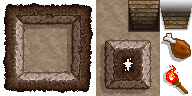
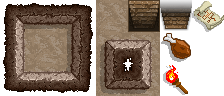
map added

diff --git a/Rogueskiv.Core/Systems/MapSys.cs b/Rogueskiv.Core/Systems/MapSys.cs
@@ -1,0 +1,50 @@
+
+using Rogueskiv.Core.Components;
+using Rogueskiv.Core.Components.Board;
+using Rogueskiv.Core.Components.Position;
+using Seedwork.Core;
+using Seedwork.Core.Entities;
+using Seedwork.Core.Systems;
+using System.Collections.Generic;
+using System.Linq;
+
+namespace Rogueskiv.Core.Systems
+{
+    class MapSys : BaseSystem
+    {
+        private Game Game;
+        private PositionComp PlayerPositionComp;
+        private List<TileComp> TileComps;
+        private List<StairsComp> StairsComps;
+
+        public override void Init(Game game)
+        {
+            Game = game;
+            PlayerPositionComp = game.Entities.GetSingleComponent<PlayerComp, CurrentPositionComp>();
+            TileComps = game.Entities.GetComponents<TileComp>();
+            StairsComps = game.Entities.GetComponents<StairsComp>();
+        }
+
+        public override void Update(EntityList entities, List<int> controls)
+        {
+            // TODO DRY FoodSys and TorchSys (... PickableSys ?)
+
+            var pickedMaps = entities
+                .GetWithComponent<MapComp>()
+                .Select(e => (
+                    mapEntityId: e.Id,
+                    mapComp: e.GetComponent<MapComp>()
+                ))
+                .Where(map => map.mapComp.TilePos == PlayerPositionComp.TilePos)
+                .ToList();
+
+            if (pickedMaps.Any())
+            {
+                TileComps.ForEach(tileComp => tileComp.HasBeenSeen = true);
+                StairsComps.ForEach(stairsComp => stairsComp.HasBeenSeen = true);
+                pickedMaps.ForEach(map => Game.RemoveEntity(map.mapEntityId));
+                Game.RemoveSystem(this);  // only one map per floor
+            }
+        }
+    }
+}

diff --git a/Rogueskiv.Core/Systems/SpawnSys.cs b/Rogueskiv.Core/Systems/SpawnSys.cs
@@ -17,8 +17,9 @@ namespace Rogueskiv.Core.Systems
     class SpawnSys : BaseSystem
     {
         private const int MIN_ENEMY_SPAWN_DISTANCE = 5;
-        private const int MIN_FOOD_SPAWN_DISTANCE = 10;
+        private const int MIN_FOOD_SPAWN_DISTANCE = 20;
         private const int MIN_TORCH_SPAWN_DISTANCE = 10;
+        private const int MIN_MAP_SPAWN_DISTANCE = 30;
         private const float STAIRS_MIN_DISTANCE_FACTOR = 0.8f;
         private const int ENEMY_RADIUS = 6;
 
@@ -79,8 +80,8 @@ namespace Rogueskiv.Core.Systems
                     .ForEach(enemy => game.AddEntity(enemy));
 
             game.AddEntity(CreateFood(measuredTiles));
-
             game.AddEntity(CreateTorch(measuredTiles));
+            game.AddEntity(CreateMap(measuredTiles));
 
             game.AddEntity(CreateDownStairs(measuredTiles, tilesPosWithSpaceAround));
 
@@ -241,6 +242,17 @@ namespace Rogueskiv.Core.Systems
                 .Add(BoardComp.TILE_SIZE / 2);
 
             return new TorchComp(torchTilePos);
+        }
+
+        private static IComponent CreateMap(
+            List<(Point tilePos, int distance)> tilePositionsAndDistances
+        )
+        {
+            var mapTilePos = GetRandomTilePos(tilePositionsAndDistances, MIN_MAP_SPAWN_DISTANCE)
+                .Multiply(BoardComp.TILE_SIZE)
+                .Add(BoardComp.TILE_SIZE / 2);
+
+            return new MapComp(mapTilePos);
         }
 
         private static IComponent CreateDownStairs(

diff --git a/Rogueskiv.Ux/Renderers/MapRenderer.cs b/Rogueskiv.Ux/Renderers/MapRenderer.cs
@@ -1,0 +1,29 @@
+using Rogueskiv.Core.Components;
+using Rogueskiv.Core.Components.Board;
+using Seedwork.Ux;
+using Seedwork.Ux.SpriteProviders;
+using System;
+using static SDL2.SDL;
+
+namespace Rogueskiv.Ux.Renderers
+{
+    class MapRenderer : PositionRenderer<MapComp>
+    {
+        public MapRenderer(UxContext uxContext, IntPtr boardTexture)
+            : base(
+                uxContext,
+                new SingleSpriteProvider<MapComp>(
+                    boardTexture,
+                    new SDL_Rect
+                    {
+                        x = 6 * BoardComp.TILE_SIZE,
+                        y = 0,
+                        w = BoardComp.TILE_SIZE,
+                        h = BoardComp.TILE_SIZE
+                    }
+                )
+            )
+        { }
+    }
+}
+

diff --git a/Rogueskiv.Ux/RogueskivRenderer.cs b/Rogueskiv.Ux/RogueskivRenderer.cs
@@ -37,6 +37,7 @@ namespace Rogueskiv.Ux
             Renderers[typeof(UpStairsComp)] = new UpStairsRenderer(uxContext, BoardTexture);
             Renderers[typeof(FoodComp)] = new FoodRenderer(uxContext, BoardTexture);
             Renderers[typeof(TorchComp)] = new TorchRenderer(uxContext, BoardTexture);
+            Renderers[typeof(MapComp)] = new MapRenderer(uxContext, BoardTexture);
             Renderers[typeof(EnemyComp)] = new EnemyRenderer(uxContext);
             Renderers[typeof(FOVComp)] = new FOVRenderer(uxContext, game);
             Renderers[typeof(PlayerComp)] = new PlayerRenderer(uxContext);

diff --git a/Rogueskiv.Core/Components/Board/TileComp.cs b/Rogueskiv.Core/Components/Board/TileComp.cs
@@ -21,7 +21,7 @@ namespace Rogueskiv.Core.Components.Board
 
     public class TileComp : PositionComp
     {
-        public bool HasBeenSeen { get; private set; }
+        public bool HasBeenSeen { get; set; }
         public bool VisibleByPlayer { get; private set; }
         public TileWallFlags WallFlags { get; private set; }
         public bool IsWall { get => WallFlags != TileWallFlags.None; }

diff --git a/Rogueskiv.Core/Components/StairsComp.cs b/Rogueskiv.Core/Components/StairsComp.cs
@@ -6,7 +6,7 @@ namespace Rogueskiv.Core.Components
     public abstract class StairsComp : CurrentPositionComp
     {
         // TODO DRY TileComp
-        public bool HasBeenSeen { get; private set; }
+        public bool HasBeenSeen { get; set; }
         public bool VisibleByPlayer { get; private set; }
 
         public override bool Visible

diff --git a/Seedwork.Core/Game.cs b/Seedwork.Core/Game.cs
@@ -47,7 +47,7 @@ namespace Seedwork.Core
             SetPause();
 
             if (!Pause && !Quit)
-                Systems.ForEach(s => s.Update(Entities, Controls));
+                Systems.ToList().ForEach(s => s.Update(Entities, Controls));
         }
 
         public virtual void Restart(IGameResult<IEntity> result)

diff --git a/Rogueskiv.Core/RogueskivGame.cs b/Rogueskiv.Core/RogueskivGame.cs
@@ -48,6 +48,7 @@ namespace Rogueskiv.Core
                     new WallSys(),
                     new FoodSys(),
                     new TorchSys(),
+                    new MapSys(),
                     new CollisionSys(),
                     new FOVSys(),
                     new StairsSys(floorCount == floor),

diff --git a/Rogueskiv.Core/Components/MapComp.cs b/Rogueskiv.Core/Components/MapComp.cs
@@ -1,0 +1,11 @@
+using Rogueskiv.Core.Components.Position;
+using System.Drawing;
+
+namespace Rogueskiv.Core.Components
+{
+    public class MapComp : CurrentPositionComp
+    {
+        public MapComp(PointF position) : base(position)
+        { }
+    }
+}
